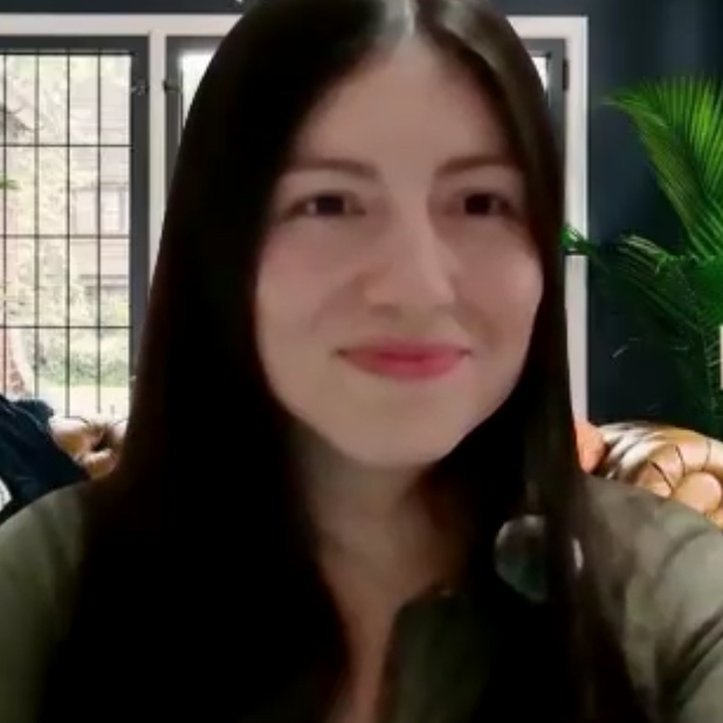
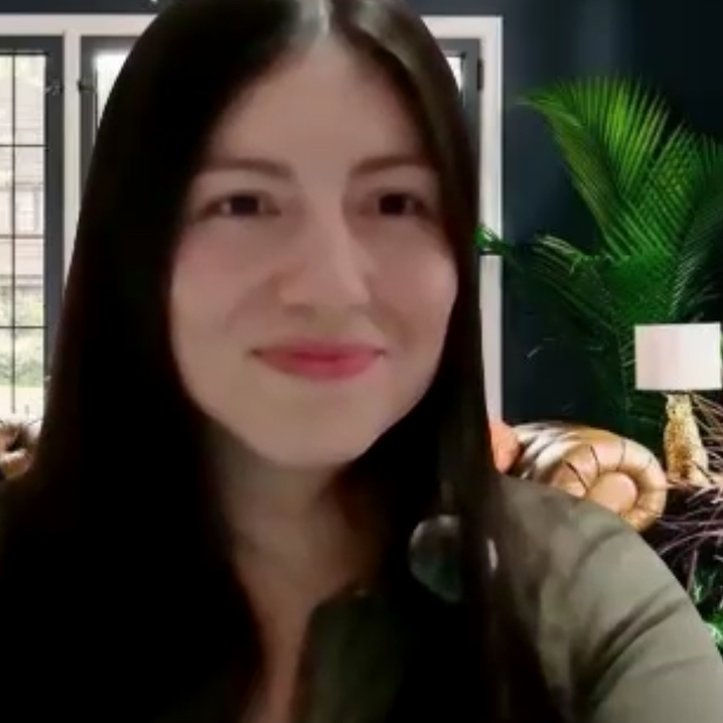
Hosts: recenter Luisa's photo on her face (was ~12% right of center)
Verified against a grid overlay: the vertical crosshair now runs
through her nose bridge/philtrum instead of her right eye. Same zoom
level as before, just shifted left. Cache-bust v=8.

diff --git a/index.html b/index.html
@@ -202,7 +202,7 @@
         <div class="host">
           <figure>
             <div class="host__photo">
-              <img src="images/host-luisa-fernanda.jpg?v=7" alt="Luisa Fernanda, co-host of Prana Party" width="723" height="723" loading="lazy" decoding="async">
+              <img src="images/host-luisa-fernanda.jpg?v=8" alt="Luisa Fernanda, co-host of Prana Party" width="723" height="723" loading="lazy" decoding="async">
             </div>
             <figcaption class="host__name">Luisa Fernanda</figcaption>
           </figure>
